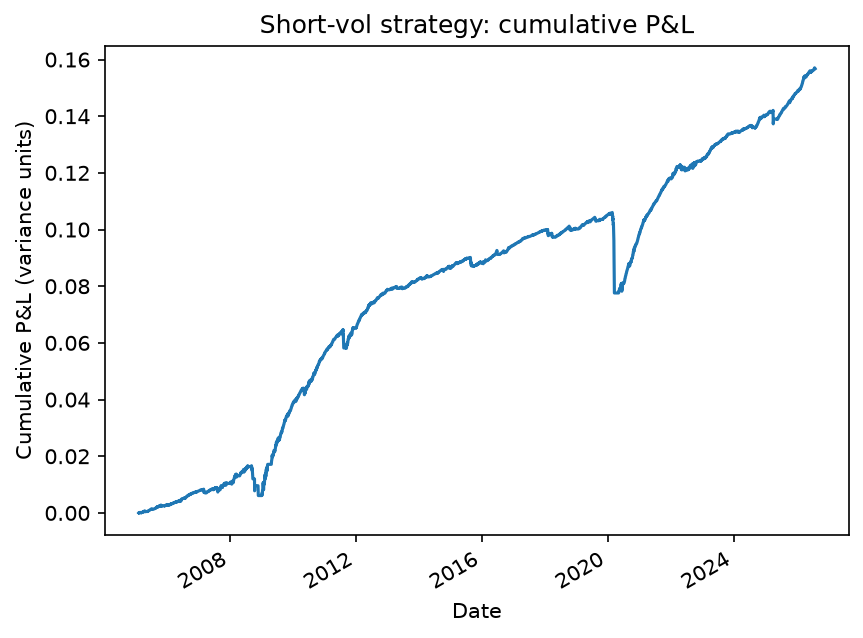
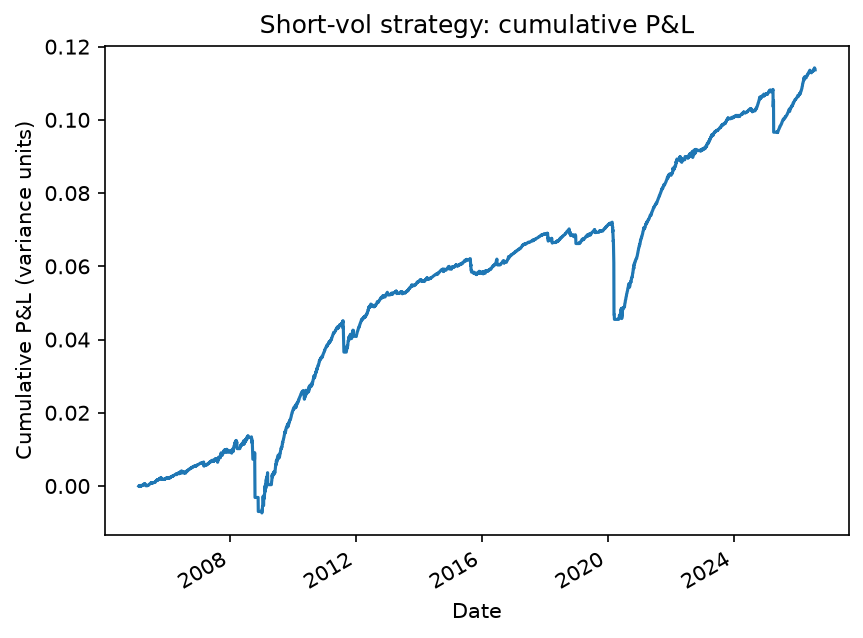
Fix lookahead bias: lag signal one day; update results to corrected figures

diff --git a/backtest.py b/backtest.py
@@ -17,7 +17,7 @@ data.columns = ["implied", "realised", "price"]
 data = data.dropna()
 data["daily_var"] = returns**2
 data["gap"] = data["implied"] - data["realised"]
-data["signal"] = data['gap'] > 0.50
+data["signal"] = (data['gap'] > 0.50).shift(1).fillna(False)
 data["daily_pnl"] = (((data["implied"]/100)**2)/252) - data["daily_var"]
 data["strategy_pnl"] = data["daily_pnl"] * data["signal"] - (data["signal"] * cost)
 data["cumulative"] = data["strategy_pnl"].cumsum()
@@ -29,21 +29,21 @@ in_sample = data.loc[data.index < "2015-01-01"].copy()
 out_sample = data.loc[data.index >= "2015-01-01"].copy()
 
 for threshold in [0.5, 1.0, 1.5]:
-    in_sample["signal"] = in_sample['gap'] > threshold
+    in_sample["signal"] = (in_sample['gap'] > threshold).shift(1).fillna(False)
     in_sample["strategy_pnl"] = in_sample["daily_pnl"] * in_sample["signal"] - (in_sample["signal"] * cost)
     cumulative_return = in_sample["strategy_pnl"].cumsum()
-    print(cumulative_return.iloc[-1])
+    print(f"in-sample threshold {threshold}: {cumulative_return.iloc[-1]:.4f}")
 
-out_sample["signal"] = out_sample["gap"] > 0.5
+out_sample["signal"] = (out_sample["gap"] > 0.5).shift(1).fillna(False)
 out_sample["strategy_pnl"] = out_sample["daily_pnl"] * out_sample["signal"] - (out_sample["signal"] * cost)
 cumulative_return_out = out_sample["strategy_pnl"].cumsum()
-print(cumulative_return_out.iloc[-1])
+print(f"out-of-sample (threshold 0.5): {cumulative_return_out.iloc[-1]:.4f}")
 
 total_return = data["cumulative"].iloc[-1]
 max_drawdown = data["drawdown"].min()
 
 print("total return:", total_return)
-print("max drawdown:,", max_drawdown)
+print("max drawdown:", max_drawdown)
 
 data["cumulative"].plot()
 plt.xlabel("Date")
@@ -77,3 +77,10 @@ plt.ylabel("Cumulative P&L (S&P index points)")
 plt.title("Straddle-hedge backtest: cumulative P&L")
 plt.savefig("backtest_integrated.png", dpi=150, bbox_inches="tight")
 plt.show()
+
+
+print("\ncost sweep (break-even search):")
+for c in [0.0001, 0.00007, 0.00005, 0.00003, 0.00001, 0]:
+    strat = data["daily_pnl"] * data["signal"] - (data["signal"] * c)
+    total = strat.cumsum().iloc[-1]
+    print(f"cost {c} ({c*10000:.1f}bp/day): total return {total:.4f}")

diff --git a/README.md b/README.md
@@ -78,7 +78,7 @@ Implied volatility (what the market charges for options, via the VIX) tends to s
 
 Data comes from the S&P 500 (`^GSPC`) and VIX (`^VIX`), 2005 to present, via yfinance. VIX is used as implied volatility, and realised volatility is computed from a rolling window of S&P returns.
 
-The signal goes short vol on days where the gap (implied − realised) exceeds a threshold, so only when options look expensive relative to actual movement.
+The signal goes short vol on days where the gap (implied − realised) exceeds a threshold, so only when options look expensive relative to actual movement. The signal is lagged by one day, so each trade uses only information available before it opens (avoiding lookahead bias).
 
 Each day's P&L is modelled as implied variance sold minus actual realised variance that day, which is equivalent to theta income minus gamma cost, the two forces driving a delta-hedged short option. Realised variance is measured from actual squared daily returns rather than a smoothed estimate, so single-day crash losses (such as March 2020) are captured rather than averaged away.
 
@@ -88,15 +88,15 @@ A per-day transaction cost is charged on days in the trade. The signal threshold
 
 ### Results
 
-Out-of-sample, the best in-sample threshold returned +0.087 on 2005 to 2014 and still +0.070 on the 2015 to 2025 data it was never tuned on, so the edge generalises rather than being curve-fit.
+Out-of-sample, the best in-sample threshold returned +0.059 on 2005 to 2014 and still +0.054 on the 2015 to 2025 data it was never tuned on, so the edge generalises rather than being curve-fit.
 
-The edge is thin, though. At around 0.1bp per day it survives; at 1bp per day every threshold turns negative. Profitability depends on institutional-grade execution costs.
+The edge is thin, though. At around 0.1bp per day it survives; by 0.3bp per day it is close to break-even, and at 0.5bp or above every threshold turns negative. Profitability depends on institutional-grade execution costs.
 
 ### Full straddle-hedge validation
 
 As a cross-check, the analytical P&L above is validated against a full options simulation. On each signal month, a 1-month at-the-money straddle is sold and delta-hedged day by day along the actual S&P path, priced with the Black-Scholes engine in `pricing.py`. This connects the pricer, the hedger, and the backtest into one system.
 
-Over 214 trades the two methods agree in shape and sign. The edge is real, with a hit rate around 84% and occasional sharp losses (the worst single trade falls in the 2020 crash). The annualised Sharpe is about 1.9, though this flatters the strategy: short-vol returns are negatively skewed, so a standard-deviation-based Sharpe understates the true tail risk.
+Over 208 trades the two methods agree in shape and sign. The edge is real, with a hit rate around 85% and occasional sharp losses (the worst single trade falls in the 2020 crash). The annualised Sharpe is about 1.9, though this flatters the strategy: short-vol returns are negatively skewed, so a standard-deviation-based Sharpe understates the true tail risk.
 
 ![Integrated equity curve](backtest_integrated.png)
 
